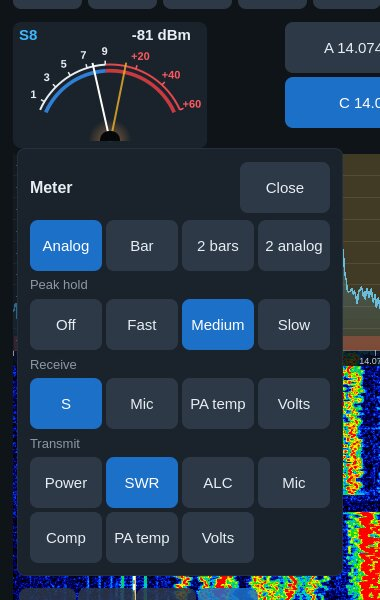
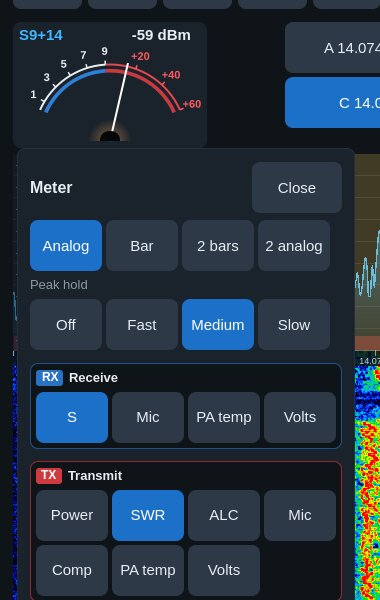
mobile: the meter chooser's receive and transmit in framed boxes tagged RX / TX
Where receive's choices ended and transmit's began showed only as a
small dim title. Each section is now a box of its own, framed and tagged
in the slice colour (RX) or the transmit colour (TX), all the chooser's
width also with fewer choices. Rendered on an iPad (1180x820, one bar and
two bars) and on phones (390x844, 360x780): the boxes fit the narrowest.

Manual: the meter chooser's RX / TX boxes, meter.jpg re-rendered
Notes: build 152 / beta 65
Roadmap: build 152 entry

Claude-Session: https://claude.ai/code/session_01KANojkzU64KoozGDbNDzRK

diff --git a/mobile/qml/MeterView.qml b/mobile/qml/MeterView.qml
@@ -306,10 +306,22 @@ Item {
                      : meter.style === "analog2" ? [{ title: qsTr("First meter: receive"), tx: false }, { title: qsTr("First meter: transmit"), tx: true }]
                      : meter.style === "two" ? [{ title: qsTr("Upper bar: receive"), tx: false }, { title: qsTr("Upper bar: transmit"), tx: true }]
                      : [{ title: qsTr("Receive"), tx: false }, { title: qsTr("Transmit"), tx: true }]
-                delegate: ColumnLayout {
+                // Each in a framed box of its own with an RX / TX tag in the
+                // slice / transmit colour, so where receive ends and transmit
+                // begins shows at a glance (a dim title alone did not).
+                delegate: Rectangle {
                     id: section
                     required property var modelData
-                    spacing: Theme.spacing / 2
+                    readonly property color tagColor: modelData.tx ? Theme.transmitTag : Theme.sliceTag
+                    color: Theme.background
+                    border.color: Qt.darker(tagColor, 1.4)
+                    radius: Theme.radius
+                    // Full width also when a section has fewer choices.
+                    implicitWidth: Math.max(sectionColumn.implicitWidth, chooser.cellWidth * 4 + 12) + 12
+                    implicitHeight: sectionColumn.implicitHeight + 12
+                    Layout.preferredWidth: implicitWidth
+                    Layout.preferredHeight: implicitHeight
+                    Layout.topMargin: Theme.spacing / 2
                     // The radio's readings, then the amplifier's under their
                     // own label (re-read only when an amplifier comes or goes).
                     readonly property var kinds: {
@@ -320,74 +332,102 @@ Item {
                     readonly property var radioKinds: kinds.filter(k => k.indexOf("Amp ") !== 0 && k.indexOf("Tuner ") !== 0)
                     readonly property var ampKinds: kinds.filter(k => k.indexOf("Amp ") === 0)
                     readonly property var tunerKinds: kinds.filter(k => k.indexOf("Tuner ") === 0)
-                    Label { text: section.modelData.title; color: Theme.textDim; font.pixelSize: Math.round(Theme.buttonFont * 0.85) }
-                    GridLayout {
-                        columns: 4
-                        columnSpacing: 4
-                        rowSpacing: 4
-                        Repeater {
-                            model: section.radioKinds
-                            delegate: AppButton {
-                                required property string modelData
-                                objectName: "meterKind" + modelData.replace(/ /g, "") + (section.modelData.tx ? "Tx" : "Rx")
-                                text: modelData
-                                checked: (section.modelData.tx ? meter.txKind : meter.rxKind) === modelData
-                                focusPolicy: Qt.NoFocus
-                                Layout.preferredWidth: chooser.cellWidth
-                                Layout.preferredHeight: Theme.touchTarget
-                                onClicked: Engine.setMeter(meter.side, section.modelData.tx, modelData)
+                    ColumnLayout {
+                        id: sectionColumn
+                        x: 6
+                        y: 6
+                        spacing: Theme.spacing / 2
+                        RowLayout {
+                            spacing: 6
+                            Rectangle {
+                                color: section.tagColor
+                                radius: 3
+                                implicitWidth: tagText.implicitWidth + 10
+                                implicitHeight: tagText.implicitHeight + 2
+                                Label {
+                                    id: tagText
+                                    anchors.centerIn: parent
+                                    text: section.modelData.tx ? qsTr("TX") : qsTr("RX")
+                                    color: "#ffffff"
+                                    font.bold: true
+                                    font.pixelSize: Math.round(Theme.buttonFont * 0.8)
+                                }
+                            }
+                            Label {
+                                text: section.modelData.title
+                                color: Theme.text
+                                font.bold: true
+                                font.pixelSize: Math.round(Theme.buttonFont * 0.85)
                             }
                         }
-                    }
-                    Label {
-                        visible: section.ampKinds.length > 0
-                        text: qsTr("Amplifier")
-                        color: Theme.textDim
-                        font.pixelSize: Math.round(Theme.buttonFont * 0.8)
-                    }
-                    GridLayout {
-                        visible: section.ampKinds.length > 0
-                        columns: 4
-                        columnSpacing: 4
-                        rowSpacing: 4
-                        Repeater {
-                            model: section.ampKinds
-                            delegate: AppButton {
-                                required property string modelData
-                                objectName: "meterKind" + modelData.replace(/ /g, "") + (section.modelData.tx ? "Tx" : "Rx")
-                                text: MeterMarks.ampLabel(modelData)
-                                Accessible.name: qsTr("Amplifier %1").arg(text)
-                                checked: (section.modelData.tx ? meter.txKind : meter.rxKind) === modelData
-                                focusPolicy: Qt.NoFocus
-                                Layout.preferredWidth: chooser.cellWidth
-                                Layout.preferredHeight: Theme.touchTarget
-                                onClicked: Engine.setMeter(meter.side, section.modelData.tx, modelData)
+                        GridLayout {
+                            columns: 4
+                            columnSpacing: 4
+                            rowSpacing: 4
+                            Repeater {
+                                model: section.radioKinds
+                                delegate: AppButton {
+                                    required property string modelData
+                                    objectName: "meterKind" + modelData.replace(/ /g, "") + (section.modelData.tx ? "Tx" : "Rx")
+                                    text: modelData
+                                    checked: (section.modelData.tx ? meter.txKind : meter.rxKind) === modelData
+                                    focusPolicy: Qt.NoFocus
+                                    Layout.preferredWidth: chooser.cellWidth
+                                    Layout.preferredHeight: Theme.touchTarget
+                                    onClicked: Engine.setMeter(meter.side, section.modelData.tx, modelData)
+                                }
                             }
                         }
-                    }
-                    Label {
-                        visible: section.tunerKinds.length > 0
-                        text: qsTr("Tuner")
-                        color: Theme.textDim
-                        font.pixelSize: Math.round(Theme.buttonFont * 0.8)
-                    }
-                    GridLayout {
-                        visible: section.tunerKinds.length > 0
-                        columns: 4
-                        columnSpacing: 4
-                        rowSpacing: 4
-                        Repeater {
-                            model: section.tunerKinds
-                            delegate: AppButton {
-                                required property string modelData
-                                objectName: "meterKind" + modelData.replace(/ /g, "") + (section.modelData.tx ? "Tx" : "Rx")
-                                text: modelData === "Tuner power" ? qsTr("Power") : qsTr("SWR")
-                                Accessible.name: qsTr("Tuner %1").arg(text)
-                                checked: (section.modelData.tx ? meter.txKind : meter.rxKind) === modelData
-                                focusPolicy: Qt.NoFocus
-                                Layout.preferredWidth: chooser.cellWidth
-                                Layout.preferredHeight: Theme.touchTarget
-                                onClicked: Engine.setMeter(meter.side, section.modelData.tx, modelData)
+                        Label {
+                            visible: section.ampKinds.length > 0
+                            text: qsTr("Amplifier")
+                            color: Theme.textDim
+                            font.pixelSize: Math.round(Theme.buttonFont * 0.8)
+                        }
+                        GridLayout {
+                            visible: section.ampKinds.length > 0
+                            columns: 4
+                            columnSpacing: 4
+                            rowSpacing: 4
+                            Repeater {
+                                model: section.ampKinds
+                                delegate: AppButton {
+                                    required property string modelData
+                                    objectName: "meterKind" + modelData.replace(/ /g, "") + (section.modelData.tx ? "Tx" : "Rx")
+                                    text: MeterMarks.ampLabel(modelData)
+                                    Accessible.name: qsTr("Amplifier %1").arg(text)
+                                    checked: (section.modelData.tx ? meter.txKind : meter.rxKind) === modelData
+                                    focusPolicy: Qt.NoFocus
+                                    Layout.preferredWidth: chooser.cellWidth
+                                    Layout.preferredHeight: Theme.touchTarget
+                                    onClicked: Engine.setMeter(meter.side, section.modelData.tx, modelData)
+                                }
+                            }
+                        }
+                        Label {
+                            visible: section.tunerKinds.length > 0
+                            text: qsTr("Tuner")
+                            color: Theme.textDim
+                            font.pixelSize: Math.round(Theme.buttonFont * 0.8)
+                        }
+                        GridLayout {
+                            visible: section.tunerKinds.length > 0
+                            columns: 4
+                            columnSpacing: 4
+                            rowSpacing: 4
+                            Repeater {
+                                model: section.tunerKinds
+                                delegate: AppButton {
+                                    required property string modelData
+                                    objectName: "meterKind" + modelData.replace(/ /g, "") + (section.modelData.tx ? "Tx" : "Rx")
+                                    text: modelData === "Tuner power" ? qsTr("Power") : qsTr("SWR")
+                                    Accessible.name: qsTr("Tuner %1").arg(text)
+                                    checked: (section.modelData.tx ? meter.txKind : meter.rxKind) === modelData
+                                    focusPolicy: Qt.NoFocus
+                                    Layout.preferredWidth: chooser.cellWidth
+                                    Layout.preferredHeight: Theme.touchTarget
+                                    onClicked: Engine.setMeter(meter.side, section.modelData.tx, modelData)
+                                }
                             }
                         }
                     }

diff --git a/mobile/ROADMAP.md b/mobile/ROADMAP.md
@@ -5,7 +5,7 @@ queued, waiting on someone, or still to verify follows.
 
 ## Next build
 
-Build 152 / beta 65 (the user, 2026-11-04: "Kaikki muut lisätään buildiin", then "mennään suoraan siihen tilanteeseen, että buildissa nuo laitteet toimivat ei pelkät mittarit"; N1MM-style broadcast left waiting, the tailnet shim noted under Later): **4O3A PGXL and TGXL** on the engine's AmpModel / TunerModel / PgxlConnection / TgxlConnection as the desktop wires them (MobileEngine4o3a.cpp, GeniusControls.qml, Radio Setup › Amp), readings and control, the remote code in the secure store; safety as agreed (control off by default, every change confirmed, the tuner's relays and antenna not while transmitting; the devices' own SWR / power / temperature guards and the radio's interlock not duplicated). Tested against genius-mock.py (real devices' frames from upstream's protocol tests) with the radio's device status fed in by the render tool's radiostatus. **APD** on a FLEX-8000 / Aurora (TX tab, Radio Setup › Transmit), tested with fed-in apd status. **The Power meter's scale** from the radio's rated power (Sloan Davis, TestFlight: an Aurora red past 100 W; the desktop's #484 rule), 2 kW with a PGXL in Operate. **The radio list's address on its own line** (Mike VA3MW's screenshot). **A SmartLink crash** (Juho Kontio: the app crashed with AetherSDR at his remote station): reproduced with the cabin PC's AetherSDR (started over SSH) and this app over SmartLink; AddressSanitizer showed ~WanConnection's socket signalling into members already destroyed (a heap use after free); fixed in the engine, clean under ASan over SmartLink and LAN. **The 4O3A readings on the four meters** (the user: the meters are the point, Controls only show more). ccache in build-mobile. To verify: a real PGXL / TGXL (Mike VA3MW?), APD on a FLEX-8000 / Aurora (Mike's AU-520), the Aurora scale; calibration, reference and restart by the user's own run (scripts in the scratchpad).
+Build 152 / beta 65 (the user, 2026-11-04: "Kaikki muut lisätään buildiin", then "mennään suoraan siihen tilanteeseen, että buildissa nuo laitteet toimivat ei pelkät mittarit"; N1MM-style broadcast left waiting, the tailnet shim noted under Later): **4O3A PGXL and TGXL** on the engine's AmpModel / TunerModel / PgxlConnection / TgxlConnection as the desktop wires them (MobileEngine4o3a.cpp, GeniusControls.qml, Radio Setup › Amp), readings and control, the remote code in the secure store; safety as agreed (control off by default, every change confirmed, the tuner's relays and antenna not while transmitting; the devices' own SWR / power / temperature guards and the radio's interlock not duplicated). Tested against genius-mock.py (real devices' frames from upstream's protocol tests) with the radio's device status fed in by the render tool's radiostatus. **APD** on a FLEX-8000 / Aurora (TX tab, Radio Setup › Transmit), tested with fed-in apd status. **The Power meter's scale** from the radio's rated power (Sloan Davis, TestFlight: an Aurora red past 100 W; the desktop's #484 rule), 2 kW with a PGXL in Operate. **The radio list's address on its own line** (Mike VA3MW's screenshot). **A SmartLink crash** (Juho Kontio: the app crashed with AetherSDR at his remote station): reproduced with the cabin PC's AetherSDR (started over SSH) and this app over SmartLink; AddressSanitizer showed ~WanConnection's socket signalling into members already destroyed (a heap use after free); fixed in the engine, clean under ASan over SmartLink and LAN. **The 4O3A readings on the four meters** (the user: the meters are the point, Controls only show more). **The meter chooser's receive and transmit in framed boxes tagged RX / TX** (the user: the border between them was only a small title). ccache in build-mobile. To verify: a real PGXL / TGXL (Mike VA3MW?), APD on a FLEX-8000 / Aurora (Mike's AU-520), the Aurora scale; calibration, reference and restart by the user's own run (scripts in the scratchpad).
 
 Build 151 / beta 64 (the user, 2026-11-03: "Toteuta 1-5 ja vastaa Larrylle", then for the build's scope "Radio Setup -auditointi"; 2026-11-04 Mike Walker VA3MW's radio list, "Buildiin 151"): **Several radios by IP address or host name** (Mike, e-mail: by IP or by name, Tailscale MagicDNS too, as AetherSDR's in-radio tailnet shim puts a radio on a tailnet; with one remembered address changing radios took trial and error, and friends share radios): the Connect page keeps a list (MobileSavedRadios: address, the user's name, what the radio calls itself learned at each connect), a tap connects, + Add a radio, ✎ to name, change or remove (asked again), the old single address moved in; checked against the FLEX by the controls at 430x932 and 1366x1024. Configuring the in-radio shim itself (a Docker waveform on radios that run them, provisioned over the radio's LAN) is later. Larry Averbeck's five points from FB (beta 62, a Galaxy S26 Ultra in portrait with a stylus): the transmit lock's countdown never ran (a lambda with Qt::UniqueConnection, refused by Qt; a member function now) and **TX › At start: Hold to arm**; **View › Zoom buttons Left / Right**; **AppScrollBar** (8 px, always interactive) everywhere and **AppComboBox** lists inside the window's safe area. Then **the rest of SmartSDR's Radio Setup**, from an audit of the desktop's tabs against the app's (the user's rule: an operator may have only this app): a new RX tab (frequency calibration as the desktop runs it, cal_freq, freq_error_ppb cleared, radio pll_start, pll_done 0 → 1, a refused start putting the offset back; the 10 MHz reference; filter sharpness per mode), and on the other tabs the station name (the handshake's protocol-safe name, kept for later connects: AppSettings::renameEffectiveStation), multiFLEX, options, license, GPS, Restart the radio, the CW sideband, CWX sync, the RTTY mark default, the front speaker, the mic meter in receive, the radio's address with DHCP / static and private-address enforcement. Tested on the FLEX-6600M (4.3.16): each write by its control on the page and set back (station name, mic meter, CWX sync, CW sideband, RTTY mark, front speaker, filter levels and Auto, calibration frequency and offset at their values); the restart, DHCP, calibration, reference and private-address questions opened and cancelled. Found: the radio answers filter_sharpness, cw synccwx and rtty_mark_default with R|0 and no status, so the page showed the old value and a second tap sent it again (Voice Auto went off on the radio, set back): RadioModel::setFilterSharpness / setFilterSharpnessAuto / setRttyMarkDefault and the engine's CWX sync now follow the radio's OK, as FlexLib's setters. Then every write path was audited the same way (the user: "Eihän meillä ole muita vastaavia ongelmia"): the render tool's new setupget reads what the page shows, and each of 31 Radio Setup keys was written, read, set back and read on the FLEX: all follow. Two more had no status: radio name (sent unsanitized too) and radio callsign, where the page kept the old call and setting it back sent nothing (the radio held OH6OKS until set back by hand): RadioModel::setRadioNickname (FlexLib's character set) and setRadioCallsign follow the OK. interlock set answers 0x5000002D yet applies and reports the value, so the page is right there. xvtr create / set / remove all report (a test transverter made, set and removed on a side connection); the app's other raw commands (pan band_zoom and dBm range, profiles, memories, spots, USB cables) report or follow their OK, as tested before. The same firmware refuses radio set mf_enable, binaural_rx and low_latency_digital_modes with 0x50001000 (could not parse; the desktop sends the same and fails the same), so those three are shown, not set; enforce_private_ip_connections is shown only (the permission check stopped even a same-value write). Layout sweep against build 151's baseline: 27 sizes, no layout decision changed, 0 QML warnings; side by side only the band's signals differ. To verify: a real calibration, a reference change, a static address and the restart, each only with the user's word (the cabin radio may drop off the network); the countdown and Hold to arm on Larry's Galaxy.
 

diff --git a/mobile/android/RELEASE_NOTES.md b/mobile/android/RELEASE_NOTES.md
@@ -6,6 +6,7 @@
 - **The Power meter follows the radio** (thanks Sloan Davis, whose Aurora's meter turned red past 100 W): 0-120 W as before, 0-600 W red from 500 W on an Aurora or a radio over 100 W, a QRP radio's own scale.
 - **The radio list shows each address on a line of its own** under the radio's name (thanks Mike VA3MW).
 - **A SmartLink crash fixed** (thanks Juho Kontio, whose app crashed with AetherSDR running at his remote station): closing a SmartLink connection freed part of the connection before its socket's last signal arrived, which corrupted memory; found with AddressSanitizer with the cabin's AetherSDR on the radio, and checked clean after the fix.
+- **The meter chooser shows where receive ends and transmit begins**: tap a meter, and receive's choices are in a box of their own with a blue **RX** tag, transmit's in one with a red **TX** tag (before, only a small dim title between them).
 
 ### Still new from beta 64
 - **Several radios by IP address or host name** (thanks Mike Walker VA3MW: with one remembered address, changing to another radio took trial and error, and friends share radios over Tailscale): the Connect page's **By IP address or host name** is a list of the radios you have entered, each card with your name for it or what the radio calls itself (its name and model, learned when you connect), the address and *last used*. A tap connects; **+ Add a radio** opens the keypad and the radio joins the list when you connect (a name that is not found is not kept); **✎** names a radio, changes its address or removes it (asked again). A host name, a dynamic DNS name or a **Tailscale MagicDNS** name (with the Tailscale app on) is looked up at each connect. The one address the app kept moves into the list. Checked against a FLEX by the page's controls, on a phone and a tablet.

diff --git a/docs/mobile/MANUAL.md b/docs/mobile/MANUAL.md
@@ -653,7 +653,9 @@ The AGC, volume, filter and meter panels stay open while you set them
 
 **Meters.** Two meters, at the ends of the slice row. Tap a meter to choose
 its style and what it shows — separately for receive and for transmit (e.g.
-S, then SWR on the air). Choices are remembered. Each meter has one of
+S, then SWR on the air). In the chooser, receive's choices are in a box
+of their own with a blue **RX** tag and transmit's in one with a red
+**TX** tag. Choices are remembered. Each meter has one of
 these styles:
 
 - **Analog** — an arc and a needle; it stays analog while transmitting too.
